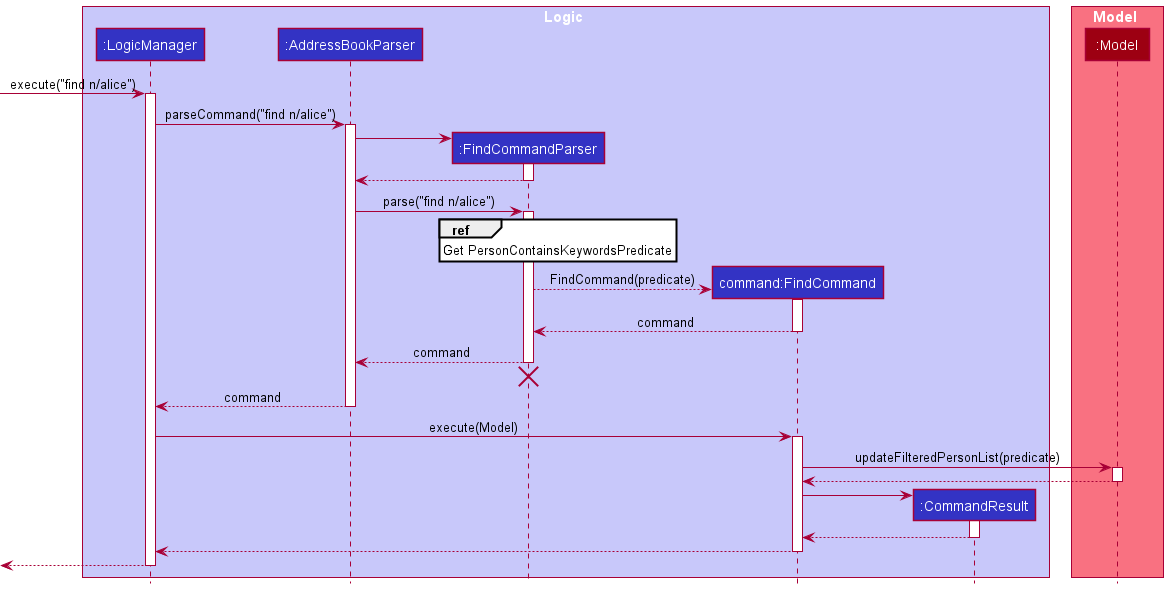
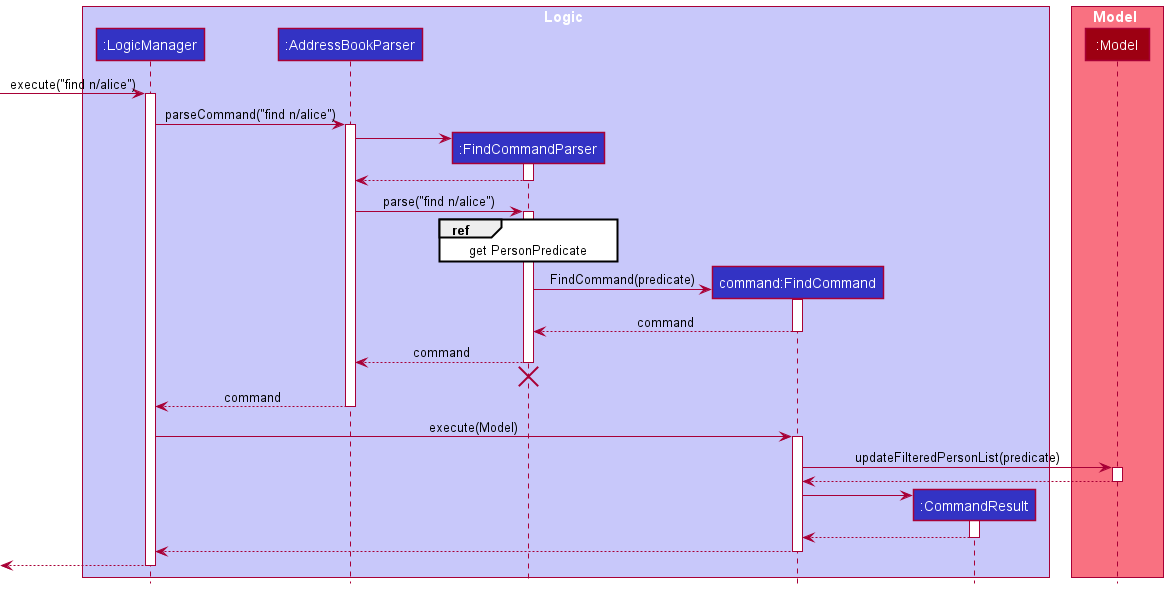
Update DeveloperGuide

Changed region(s): [[0.4007, 0.3667, 0.5856, 0.4584]]

diff --git a/src/main/java/seedu/address/logic/parser/FindPersonDescriptor.java b/src/main/java/seedu/address/logic/parser/FindPersonDescriptor.java
@@ -16,7 +16,7 @@ import java.util.List;
 import javafx.util.Pair;
 
 /**
- * Static class that stores the description to search a person by.
+ *  A class that stores the description to search a person by.
  */
 public class FindPersonDescriptor {
     private final HashMap<Prefix, String> descriptor;

diff --git a/docs/DeveloperGuide.md b/docs/DeveloperGuide.md
@@ -261,42 +261,30 @@ The following activity diagram summarizes what happens when a user executes a ne
     * Cons: We must ensure that the implementation of each individual command are correct.
 
 ### Find feature
-The address book find command allow users to search contacts based on any of the attributes that extends from the ``PersonAttribute`` class. When the user keys in a find command, the user input is parsed through a ``FindCommandParser`` and if a valid input is given, the ``FindCommand#execute(Model)`` method will be invoked. Doing this will effectively filter the person list in the ``Addressbook`` and this filtered list will be returned to the Ui for display.
+The address book find command allow users to search contacts based on their name, email, phone, address, tags, and memo. When the user keys in a find command, the user input is parsed through a ``FindCommandParser`` and if a valid input is given, the ``FindCommand#execute(Model)`` method will be invoked. Doing this will effectively filter the person list in the ``Addressbook`` and this filtered list will be returned to the Ui for display.
 
 Given below is a sequence diagram to show the execution flow of the find command and a walk-through for each step of the execution:
 
 <img src="images/FindSequenceDiagram.png"/>
 <br/>
 <br/>
-<img src="images/GetPersonContainsKeywordsPredicate.png"/>
+<img src="images/PersonPredicate.png"/>
 
 Step 1. When a user invokes a find command from the Ui, ``LogicManager`` will be called, which parses the user input into ``AddressbookParser#parseCommand(String)``.
 
-Step 2. ``FindCommandParser`` will then be instantiated and ``FindCommandParser#parse(String)`` is invoked. If a valid input is provided, ``FindCommandParser#createArgumentMultimap(String)``is called.
+Step 2. ``FindCommandParser`` will then be instantiated and ``FindCommandParser#parse(String)`` is invoked. If a valid input is provided, ``FindCommandParser#getDescriptor(String)``is called.
 
-Below is a class diagram that shows the attributes that extends from ``PersonAttribute``:
+Since a user can key in multiple valid parameters to increase the scope of a search (i.e. search by name and tags), we will need a way to identify different parts of the user input and match the input to their corresponding prefix. This can be achieved with the ``FindPersonDescriptor`` class where it will store the descriptions to search a person by.
 
-<img src="images/PersonAttributeClassDiagram.png" height="250px"/>
+Step 3. The ``FindPersonDescriptor`` object is passed as an argument into the  ``PersonPredicate`` constructor and the object created is returned to ``FindCommandParser``.
 
-A person have numerous attributes namely: 
-1. Name
-2. Phone
-3. Tag
-4. Email
-5. Address
-6. Memo
-
-Since all of these attributes are valid parameters a user can use to find a person by, we will need a way to identify different parts of the user input and match the input to their corresponding attributes. This can be achieved with the ``ArgumentTokenizer#Tokenize(String, Prefix...)`` method where it will return an ``ArgumentMultimap`` object that serves our purpose.
-
-<div markdown="span" class="alert alert-info">
-:information_source: **Note:** ``ArgumentTokenizer#Tokenize(String, Prefix...)`` is reused by other commands like ``EditCommand`` and in those situations, a specific entry in the ``ArgumentMultimap`` object is reserved for the preamble. For our purpose, the entry reserved for the preamble is not needed (as users will not be passing any index into the find command). Hence, ``ArgumentMultimap#removePreamble()`` is executed to remove the preamble from the ``ArgumentMultimap`` object. 
+<div markdown="span" class="alert alert-info">  
+:information_source: **Note:** Two note-worthy classes that are created in ``PersonPredicate`` but not shown in the sequence diagram is the ``ExactWordMatchPredicate`` and ``PartialWordMatchPredicate`` which encapsulate the logic of conducting exact word match and partial word match on a person's attribute respectively. They are used in the ``PersonPredicate#test(Person)`` method during the filter process and to conduct exact word match/partial word match depending on the person's attribute. More information will be given in the design consideration. 
 </div>
-
-Step 3. The ``ArgumentMultimap`` object is passed as an argument into the  ``PersonContainsKeywordsPredicate`` constructor and the object created is returned to ``FindCommandParser``.
 
 Step 4. ``FindCommandParser`` will then use the predicate object to create the ``FindCommand`` object and this object is returned to ``LogicManager``.
 
-Step 5. ``LogicManager`` will then call the ``FindCommand#execute(Model)`` method and this method will invoke 
+Step 5. ``LogicManager`` will then call ``FindCommand#execute(Model)`` method and this method will invoke 
 ``Model#updateFilteredPersonList(PersonContainsKeywordsPredicate)`` where it will update the filter for the person list in the address book.
 
 Step 6. After the filter has been updated, each person in the person list will be tested against the predicate to see if any of the information in the person's attribute matches any of the keywords provided by the user. The filtered list is created and returned to the Ui.
@@ -312,7 +300,27 @@ Step 6. After the filter has been updated, each person in the person list will b
 * **Alternative 1:** Allow chaining of the find command so that filtering of the filtered person list can be performed.  
     * Pros: It is a useful feature to have. 
     * Cons: It is costly in terms of time and effort to develop as the current implementation can already achieve a similar functionality. To allow chaining of the find command, we will have to change the data structure that stores the filtered person list and since there are multiple classes in the application that relies on this list, changing it might require us to change certain components in other classes as well.
-    
+
+**Aspect: How the find feature matches words**
+* **Current implementation:** Different search criteria for different search parameters. For example, address, memo and tags follows an exact word match criteria while name, phone and email follows a partial word match criteria. 
+  * Pros: Allows for a more accurate search that meets the needs of the user (as opposed to adopting a single search criteria for all the person's attribute). 
+    * Tags was chosen to follow the exact word match criteria because users are likely to remember the full word of a tag and search for them.
+    * As for address and memo, since those attributes can be stored as sentences, allowing a partial word match would increase the average hit rate per search query and as a result, lead to a search result that may not show any meaningful information. For instance, the word "a" often appears in many sentences in the English language thus, allowing for this partial search of the word "a" in a sentence may produce many result the user might not want. Hence, an exact word match criteria was chosen for address and memo. 
+    * Phone number, name and email follows a partial word match criteria where users are able to search for contacts based on the keywords they provide. For example, if John has a phone number 90400202, then `find p/9040` would return John. 
+  * Cons: Edge cases that may cause the search to be ineffective are present and one such test case would be: ``find e/gmail`` where the intended effect the user might want is to search for all contacts that have the email address set as "gmail". However, the email "redherringmail@yahoo" will be matched with the user query and this causes the search to be ineffective.  
+  * Temporary workaround: Instead of searching for "gmail", users are able to search for "@gmail" if they would want to find all contacts that have the domain name set as "gmail".  
+  
+
+* **Alternative 1:** Same search criteria for all the search parameters. 
+  * Pros: Easy to implement.
+  * Cons: It might lead to nonsensical search results especially when partial word match is used for the memo and address attribute.
+
+
+<div markdown="span" class="alert alert-info">  
+:information_source: **Note:** A word is defined as consecutive characters that is bounded by whitespaces.
+e.g. "This is a sentence!" contains the word "This", "is", "a" and "sentence! 
+</div>
+  
 ### \[Proposed\] Data archiving
 
 _{Explain here how the data archiving feature will be implemented}_

diff --git a/docs/UserGuide.md b/docs/UserGuide.md
@@ -124,19 +124,20 @@ Format: `find [n/NAME] [p/PHONE] [e/EMAIL] [a/ADDRESS] [m/MEMO] [t/TAG]…`
 * At least 1 parameter must be present.
 * Name, phone number, email, address, memo and tags are eligible parameters.
 * Specifying the parameter followed by the word to search for helps to scope the search to that specific attribute.
-* The order of the keywords does not matter. e.g. Hans Bo will match Bo Hans
-* Only full words will be matched e.g. Han will not match Hans.
-* Persons matching at least one keyword will be returned. e.g. Hans Bo will return Hans Gruber, Bo Yang
+* Name, phone number and email follows a partial word match criteria where "Han" will match with "Hans" and "904" would match with "90400203".
+* Tag, address and email follows an exact word match criteria where "Hans" will match with "Hans" or "hans".
+* For both search criteria, order of the keywords does not matter. e.g. Hans Bo will match Bo Hans
+* For both search criteria, as long as there is a word match (partial/exact), the contact would be in the filtered list. 
 
 **Note: A word is defined as consecutive characters that is bounded by whitespaces.**
 e.g. "This is a sentence!" contains the word "This", "is", "a" and "sentence!".
 
 Examples:
 * `find n/ John` returns john and John Doe
-* `find n/alex david` returns Alex Yeoh and David Li.
-* If David Li has an email davidLi98@gmail.com, then `find e/davidLi98@gmail.com` would return David Li.
-* If John has a phone number 90400202, then `find p/90400202` would return John.
-* If John has a phone number 90400202, then `find p/90400203` would return no result.
+* `find n/alex david` returns Alex Yeoh and David Li and Alexa.
+* If David Li has an email davidLi98@gmail.com, then `find e/gmail` would return David Li. 
+* If John has a phone number 90400202, then `find p/9040` would return John.
+* If John has a phone number 90400202, then `find p/202` would return John.
 * If John has a tag family, then `find t/family` would return John.
 * If John has a tag family, then `find t/fam` would return no result.
 
